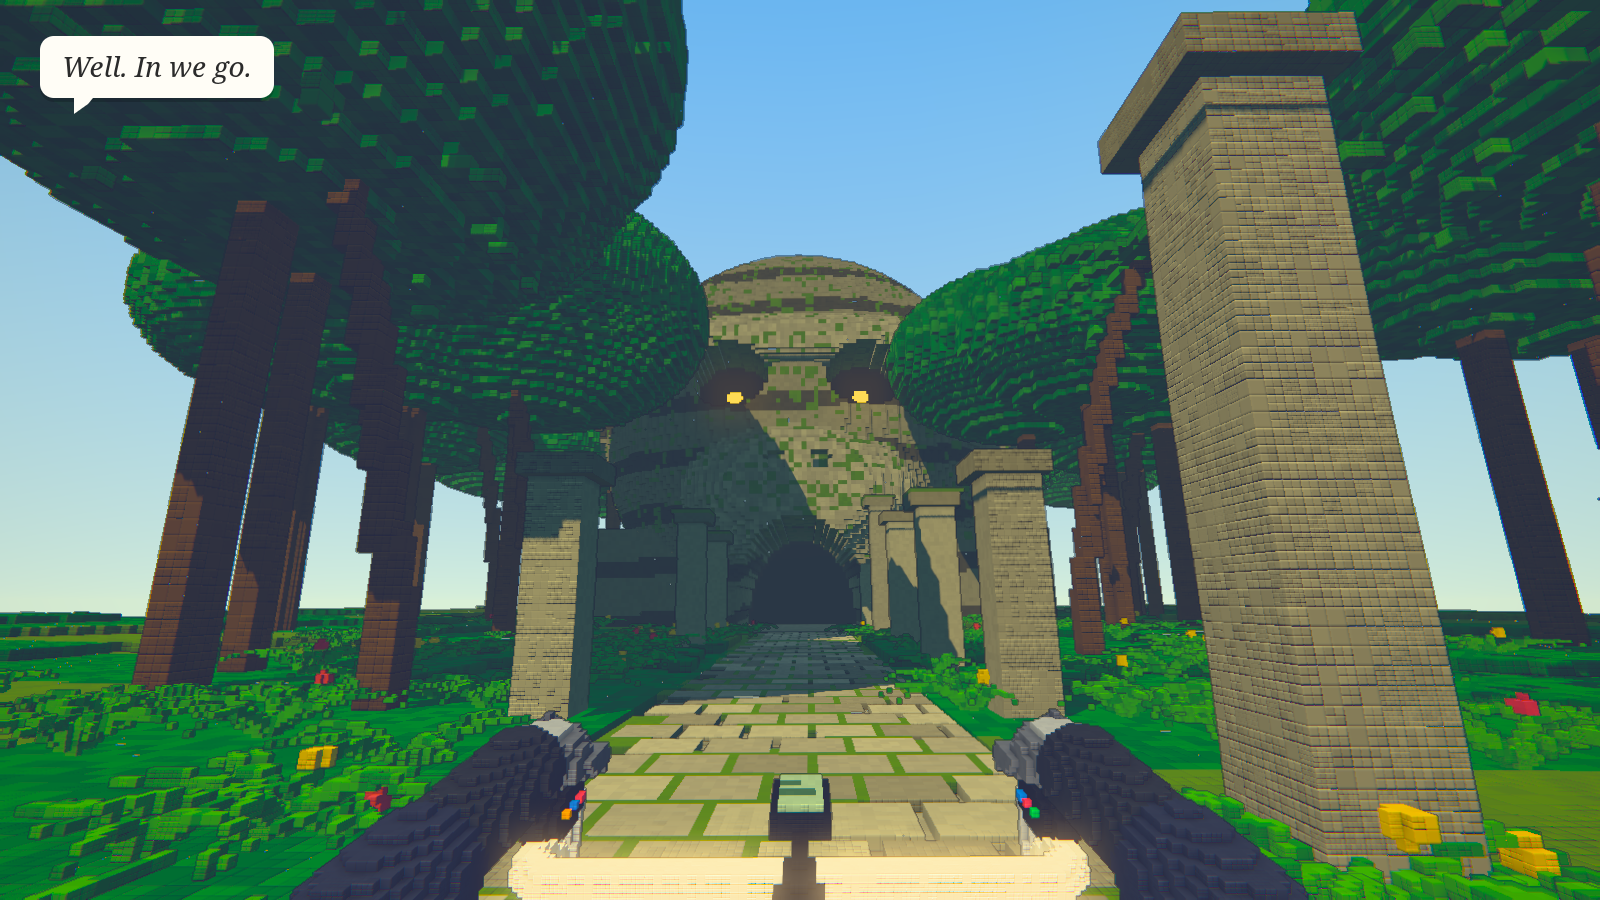
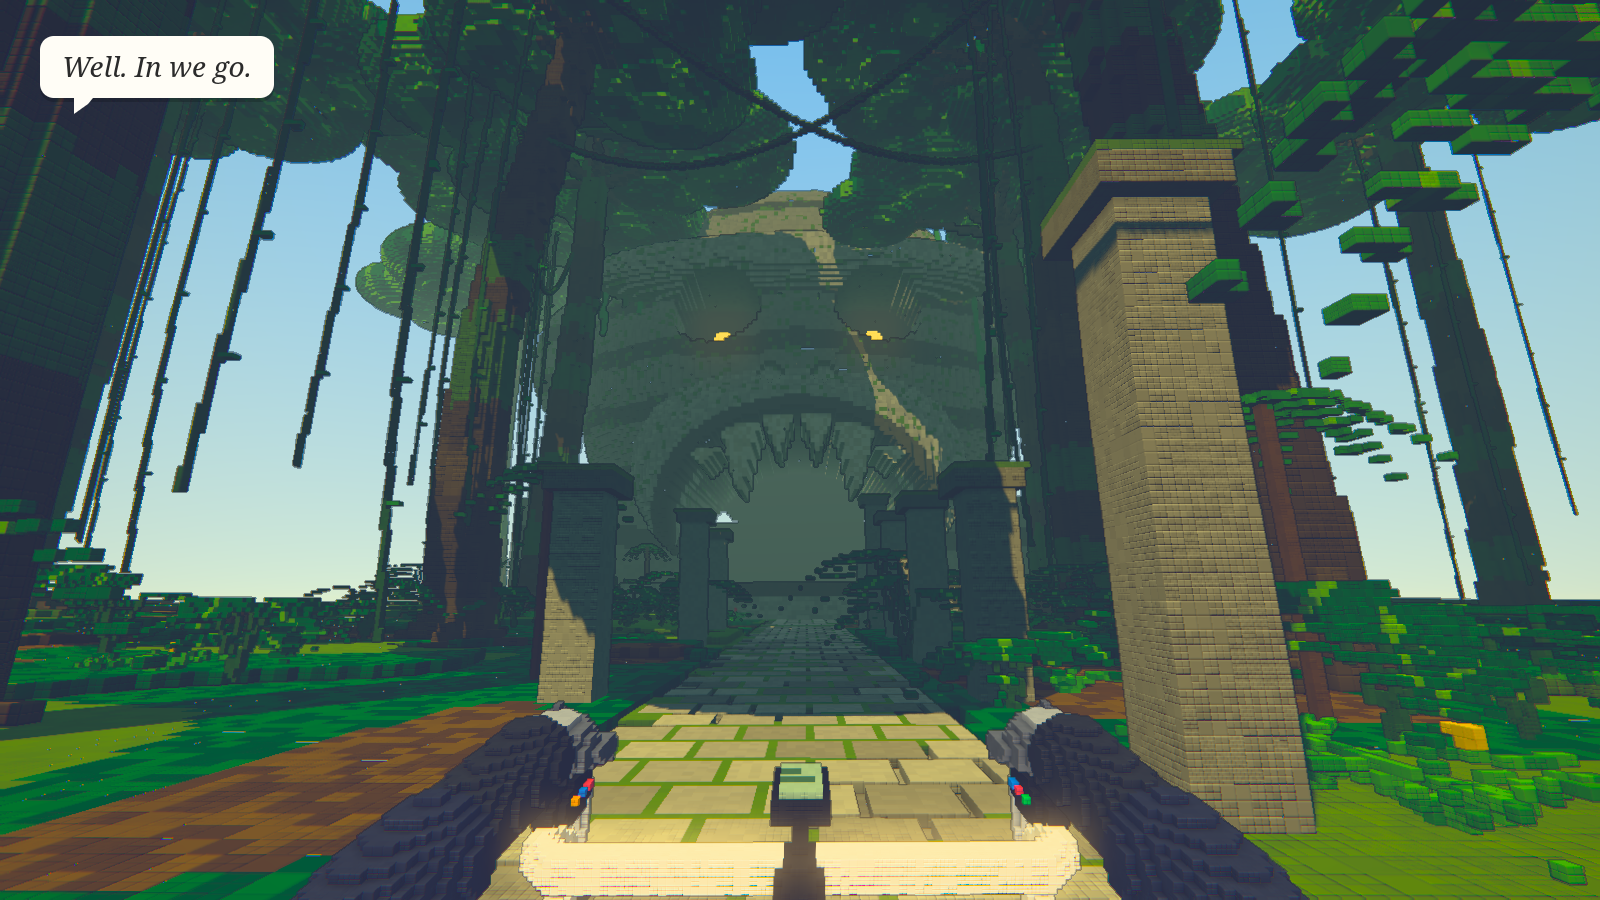
Seaside: bigger fanged monkey head, proper rainforest
- Monkey head ~1.8x larger (stands ~38 m) with a gaping oval mouth doorway:
  six upper fangs (long canines), lower fangs at the corners, a dark lip ring
  and a stone jaw threshold; eyes and nostrils re-placed around the muzzle
- Jungle: rainforest giants with buttress roots, crooked trunks and lumpy
  multi-mass crowns arching over the path; lianas hanging from crowns and
  swagged between trees (kept clear of the face); broad-leaf clumps, ferns
  and small palms in the understory; leaf-litter floor; humid green haze

diff --git a/src/games/seaside/stills/later/monkey.ts b/src/games/seaside/stills/later/monkey.ts
@@ -1,114 +1,174 @@
-// Midday, 1:22 — the end of the jungle stone path: toppled pillars, ferns, palms, and the giant carved monkey face
-// whose open mouth is the temple door.
+// Midday, 1:22 — the end of the jungle stone path: rainforest giants, lianas, broad-leaf understory, toppled pillars,
+// and the colossal carved monkey head whose gaping, fanged mouth is the temple door.
 import * as THREE from 'three';
 import { VoxelGrid } from '../../voxel/grid';
 import { noise2, fbm } from '../../voxel/noise';
 import { makeStage, aimSun, type Stage } from '../stage';
 import { L, fillBox, addLit, addGlow, fpBars, rnd } from './kit';
 
-const ground = (x: number, z: number) => 0.6 * fbm(x / 9, z / 9, 3, 31) - 0.3 + 0.03 * Math.abs(x) - (Math.abs(x) < 2.2 ? 0.2 : 0);
-const FACE_Z = -30, K = 1.45; // face position and scale
+const ground = (x: number, z: number) => 0.7 * fbm(x / 9, z / 9, 3, 31) - 0.35 + 0.025 * Math.abs(x) - (Math.abs(x) < 2.2 ? 0.25 : 0);
+const FACE_Z = -46, K = 2.6; // face position and scale (the head is designed in unit space, ~15 units tall)
+const PATH_END = FACE_Z + 3.6 * K;
+
+/** A rainforest giant: buttress roots, a tall slightly crooked trunk, branches, and a lumpy layered crown. */
+function giant(g: VoxelGrid, x: number, z: number, H: number, R: number, seed: number, lean: [number, number]) {
+  const gy = ground(x, z), r0 = 0.55 + R * 0.06;
+  const at = (t: number) => [x + lean[0] * t * t + Math.sin(t * 5 + seed) * 0.4, gy + H * t, z + lean[1] * t * t];
+  for (let i = 0; i < 16; i++) { const t0 = i / 16, t1 = (i + 1) / 16; g.wsegment(at(t0), at(t1), r0 * (1 - 0.35 * t0), rnd(i, seed, 60) < 0.25 ? L.barkMoss : i % 3 ? L.bark : L.bark2); }
+  // buttress fins
+  for (let f = 0; f < 5; f++) {
+    const a = (f / 5) * Math.PI * 2 + seed * 1.7, reach = 1.8 + rnd(f, seed, 61) * 1.6, hgt = 2.2 + rnd(f, seed, 62) * 1.8;
+    for (let k = 0; k <= 8; k++) { const t = k / 8; g.wsegment([x, gy + hgt * (1 - t), z], [x + Math.cos(a) * reach * (0.3 + 0.7 * t), gy - 0.1, z + Math.sin(a) * reach * (0.3 + 0.7 * t)], 0.14, L.bark2); }
+  }
+  // crown: branches out to 6–9 flattened leaf masses at staggered heights
+  const top = at(1), n = 6 + Math.floor(rnd(seed, 1, 63) * 4);
+  for (let b = 0; b < n; b++) {
+    const a = (b / n) * Math.PI * 2 + rnd(b, seed, 64), d = R * (0.35 + 0.65 * rnd(b, seed, 65)), hy = top[1] - 2 + rnd(b, seed, 66) * 4;
+    const c = [top[0] + Math.cos(a) * d, hy, top[2] + Math.sin(a) * d];
+    g.wsegment([top[0], top[1] - 3, top[2]], c, 0.22, L.bark);
+    const rr = R * (0.35 + 0.25 * rnd(b, seed, 67));
+    g.wellipsoid(c, [rr, rr * 0.45, rr], (xx, yy, zz) => {
+      const n2 = noise2(xx * 0.18 + seed, zz * 0.18, 68), r = rnd(xx, yy, zz);
+      if (r < 0.06) return 0; // ragged, see-through edges
+      return n2 > 0.62 ? L.leafLime : n2 < 0.35 ? L.leafDark : r < 0.5 ? L.jungle2 : L.leafMid;
+    });
+  }
+}
 
 export function stillMonkey(canvas: HTMLCanvasElement, w: number, h: number): Stage {
-  const sunDir = new THREE.Vector3(-0.45, 0.85, 0.55);
+  const sunDir = new THREE.Vector3(-0.35, 0.9, 0.45);
   const st = makeStage(canvas, w, h, {
-    zenith: 0x5fb4e8, horizon: 0xdff2e2, fog: 0xcfe6cf, fogDensity: 0.0055, sunDir, sunColor: 0xfff1d0, sunI: 2.8, hemiSky: 0xcdeccf, hemiGround: 0x5a7a3a, hemiI: 1.0,
+    zenith: 0x6fbde6, horizon: 0xe2f0dc, fog: 0xb9d8b4, fogDensity: 0.0072, sunDir, sunColor: 0xfff0c8, sunI: 2.9, hemiSky: 0xc8e8c4, hemiGround: 0x3a5a2a, hemiI: 0.9,
   });
-  // jungle floor + ferns + flowers
+
+  // forest floor with leaf litter and roots
   const g = new VoxelGrid(0.25);
-  fillBox(g, [-30, -2, -60], [30, 2.5, 8], (x, y, z) => {
+  fillBox(g, [-45, -2, FACE_Z - 50], [45, 2.5, 8], (x, y, z) => {
     const hgt = ground(x, z);
-    if (y > hgt) {
-      return 0;
-    }
-    if (y < hgt - 0.6) return 0;
-    if (Math.abs(x) < 2.0) return 0; // path goes here
-    return y > hgt - 0.25 ? (noise2(x / 5, z / 5, 37) > 0.55 ? L.moss : rnd(Math.round(x * 4), Math.round(z * 4), 38) < 0.5 ? L.jungle : L.jungle2) : L.soil;
+    if (y > hgt || y < hgt - 0.6) return 0;
+    if (Math.abs(x) < 2.0 && z > PATH_END - 1) return 0; // the stone path goes here
+    if (y < hgt - 0.25) return L.soil;
+    const n = noise2(x / 4, z / 4, 37), r = rnd(Math.round(x * 4), Math.round(z * 4), 38);
+    return n > 0.62 ? L.moss : n < 0.22 ? (r < 0.5 ? L.litter : L.soil) : r < 0.5 ? L.jungle2 : L.leafDark;
   });
-  // trees: palms bending over the path, broadleaf canopy behind
-  const tree = (x: number, z: number, hgt: number, lean: number, seed: number) => {
-    const b = [x, ground(x, z), z], top = [x + lean, b[1] + hgt, z + 0.4];
-    for (let i = 0; i < 10; i++) { const t0 = i / 10, t1 = (i + 1) / 10; const p = (t: number) => [b[0] + (top[0] - b[0]) * t * t, b[1] + (top[1] - b[1]) * t, b[2] + (top[2] - b[2]) * t]; g.wsegment(p(t0), p(t1), 0.28 - 0.1 * t0, L.trunk); }
-    for (let f = 0; f < 7; f++) {
-      const a = (f / 7) * Math.PI * 2 + seed, len = 3.2 + rnd(f, seed, 40) * 1.2;
-      for (let k = 0; k < 8; k++) { const t = k / 8; g.wellipsoid([top[0] + Math.cos(a) * len * t, top[1] + 0.4 - t * t * 2.0, top[2] + Math.sin(a) * len * t], [0.35 * (1 - t * 0.6), 0.12, 0.35 * (1 - t * 0.6)], (xx, yy) => (rnd(xx, yy, f) < 0.5 ? L.palm : L.palm2)); }
+  // rainforest giants: an arch over the path in front, walls of trees down both sides, a backdrop behind the head
+  const giants: Array<[number, number, number, number, [number, number]]> = [
+    [-10.5, -2, 24, 9, [3.5, 0]], [9, -7, 27, 10, [-3.5, 0]], [-11, -16, 26, 8, [2, 0]], [12, -20, 29, 9, [-2, 0]],
+    [-14, -30, 30, 9, [1, 0]], [15, -33, 28, 9, [-1, 0]], [-28, -12, 31, 11, [0, 0]], [29, -8, 30, 11, [0, 0]],
+    [-24, -40, 34, 12, [0, 0]], [25, -44, 33, 12, [0, 0]], [-36, -24, 32, 10, [0, 0]], [37, -28, 31, 10, [0, 0]],
+    [-14, FACE_Z - 26, 38, 14, [0, 0]], [12, FACE_Z - 30, 40, 15, [0, 0]], [-34, FACE_Z - 18, 36, 13, [0, 0]], [33, FACE_Z - 14, 37, 13, [0, 0]],
+  ];
+  giants.forEach(([x, z, H, R, lean], i) => giant(g, x, z, H, R, i + 1, lean));
+  addLit(st, 'jungle giants', g, 0.08, { cast: true, receive: true });
+
+  // lianas (hanging from crowns, some looping between trees), understory: broad leaves, ferns, palms
+  const u = new VoxelGrid(0.08);
+  for (let i = 0; i < 70; i++) {
+    const [tx, tz, H] = giants[i % giants.length], a = rnd(i, 1, 70) * Math.PI * 2, d = 2 + rnd(i, 2, 70) * 6;
+    const x = tx + Math.cos(a) * d, z = tz + Math.sin(a) * d;
+    if ((Math.abs(x) < 3 && z < 2 && z > PATH_END) || (Math.abs(x) < 13 && z < -18)) continue; // nothing hanging in front of the face
+    const y0 = ground(tx, tz) + H - 3, y1 = ground(x, z) + rnd(i, 3, 70) * 6, sway = (rnd(i, 4, 70) - 0.5) * 1.5;
+    for (let k = 0; k < 24; k++) { const t0 = k / 24, t1 = (k + 1) / 24; u.wsegment([x + sway * Math.sin(t0 * 3), y0 + (y1 - y0) * t0, z], [x + sway * Math.sin(t1 * 3), y0 + (y1 - y0) * t1, z], 0.06, L.vine); if (k % 3 === 0) u.wellipsoid([x + sway * Math.sin(t0 * 3) + 0.12, y0 + (y1 - y0) * t0, z], [0.14, 0.05, 0.1], L.jungle3); }
+  }
+  for (const [ia, ib] of [[0, 1], [1, 2], [0, 3], [6, 0], [7, 1], [2, 4], [3, 5]]) { // swags between giants, only over the near path
+    const [ax, az, ah] = giants[ia], [bx, bz, bh] = giants[ib];
+    const A = [ax, ground(ax, az) + ah * 0.75, az], B = [bx, ground(bx, bz) + bh * 0.75, bz];
+    for (let k = 0; k < 30; k++) { const t0 = k / 30, t1 = (k + 1) / 30, p = (t: number) => [A[0] + (B[0] - A[0]) * t, A[1] + (B[1] - A[1]) * t - Math.sin(Math.PI * t) * 5, A[2] + (B[2] - A[2]) * t]; u.wsegment(p(t0), p(t1), 0.07, L.vine); }
+  }
+  const leaf = (base: number[], a: number, len: number, wid: number, rise: number, droop: number, col: number) => {
+    for (let k = 0; k <= 10; k++) {
+      const t = k / 10, wv = wid * Math.sin(Math.PI * Math.min(1, t * 1.1)) + 0.02;
+      const p = [base[0] + Math.cos(a) * len * t, base[1] + rise * t - droop * t * t, base[2] + Math.sin(a) * len * t];
+      for (let s = -1; s <= 1; s += 0.25) u.wellipsoid([p[0] - Math.sin(a) * wv * s, p[1], p[2] + Math.cos(a) * wv * s], [0.07, 0.04, 0.07], Math.abs(s) < 0.1 ? L.leafLime : col);
     }
   };
-  [[-6, -6, 9, -1.8, 1], [7, -12, 10, 2.2, 2], [-9, -18, 11, -1.5, 3], [8, -2, 8, 1.5, 4], [-14, -26, 12, -2, 5], [14, -24, 11, 2, 6]].forEach(([x, z, hh, l, sd]) => tree(x, z, hh, l, sd));
-  for (let i = 0; i < 26; i++) {
-    const side = i % 2 ? 1 : -1, x = side * (9 + rnd(i, 1, 41) * 16), z = -2 - rnd(i, 2, 41) * 50, r = 3 + rnd(i, 3, 41) * 3;
-    g.wsegment([x, ground(x, z), z], [x, ground(x, z) + 6 + r, z], 0.35, L.trunk);
-    g.wellipsoid([x, ground(x, z) + 7 + r, z], [r * 1.3, r * 0.8, r * 1.3], (xx, yy, zz) => { const n = rnd(xx, yy, zz); return n < 0.4 ? L.jungle : n < 0.75 ? L.jungle2 : L.jungle3; });
-  }
-  addLit(st, 'jungle', g, 0.08, { cast: true, receive: true });
-  // ferns as real fronds, and small flowers, on a finer grid
-  const fg = new VoxelGrid(0.06);
-  for (let i = 0; i < 150; i++) {
-    const side = i % 2 ? 1 : -1, x = side * (2.5 + rnd(i, 1, 50) ** 1.5 * 12), z = 3 - rnd(i, 2, 50) * (-FACE_Z + 2), y0 = ground(x, z), size = 0.6 + rnd(i, 3, 50) * 0.9;
-    const n = 6 + Math.floor(rnd(i, 4, 50) * 4);
-    for (let f = 0; f < n; f++) {
-      const a = (f / n) * Math.PI * 2 + rnd(i, f, 51), pts: number[][] = [];
-      for (let k = 0; k <= 6; k++) { const t = k / 6; pts.push([x + Math.cos(a) * size * t, y0 + size * (0.9 * t - 0.75 * t * t), z + Math.sin(a) * size * t]); }
-      for (let k = 0; k < 6; k++) fg.wsegment(pts[k], pts[k + 1], 0.07 * (1 - k / 7), (f + k) % 3 ? L.fern : L.fern2);
+  for (let i = 0; i < 120; i++) {
+    const side = i % 2 ? 1 : -1, x = side * (2.6 + rnd(i, 1, 71) ** 1.4 * 20), z = 4 - rnd(i, 2, 71) * (8 - FACE_Z), y0 = ground(x, z);
+    if (z < PATH_END - 6 && Math.abs(x) < 9) continue; // keep the mouth clear
+    const kind = rnd(i, 3, 71);
+    if (kind < 0.45) { // big broad-leaf clump (elephant ear / banana)
+      const n = 4 + Math.floor(rnd(i, 4, 71) * 4), size = 0.9 + rnd(i, 5, 71) * 1.4;
+      for (let f = 0; f < n; f++) { const a = (f / n) * Math.PI * 2 + rnd(i, f, 72), stem = [x + Math.cos(a) * 0.3 * size, y0 + size * (0.6 + rnd(i, f, 73) * 0.6), z + Math.sin(a) * 0.3 * size]; u.wsegment([x, y0, z], stem, 0.04, L.vine); leaf(stem, a, size * 1.1, size * 0.32, 0.3 * size, 0.9 * size, f % 2 ? L.leafMid : L.jungle2); }
+    } else if (kind < 0.85) { // fern
+      const n = 7 + Math.floor(rnd(i, 4, 71) * 4), size = 0.7 + rnd(i, 5, 71) * 1.0;
+      for (let f = 0; f < n; f++) { const a = (f / n) * Math.PI * 2 + rnd(i, f, 74), pts: number[][] = []; for (let k = 0; k <= 6; k++) { const t = k / 6; pts.push([x + Math.cos(a) * size * t, y0 + size * (0.9 * t - 0.75 * t * t), z + Math.sin(a) * size * t]); } for (let k = 0; k < 6; k++) u.wsegment(pts[k], pts[k + 1], 0.07 * (1 - k / 7), (f + k) % 3 ? L.fern : L.fern2); }
+      if (rnd(i, 9, 75) < 0.3) u.wellipsoid([x + 0.2, y0 + size * 0.4, z], [0.09, 0.09, 0.09], rnd(i, 10, 75) < 0.5 ? L.flower : L.flower2);
+    } else { // small palm
+      const hh = 2 + rnd(i, 4, 71) * 3, top = [x, y0 + hh, z];
+      u.wsegment([x, y0, z], top, 0.1, L.trunk);
+      for (let f = 0; f < 7; f++) leaf(top, (f / 7) * Math.PI * 2, 1.6, 0.25, 0.4, 1.4, f % 2 ? L.palm : L.palm2);
     }
-    if (rnd(i, 9, 52) < 0.25) fg.wellipsoid([x + 0.2, y0 + size * 0.35, z], [0.09, 0.09, 0.09], rnd(i, 10, 52) < 0.5 ? L.flower : L.flower2);
   }
-  addLit(st, 'ferns', fg, 0.08, { cast: false, receive: true });
+  addLit(st, 'lianas + understory', u, 0.08, { cast: false, receive: true });
 
-  // cut-stone path and pillars (some toppled), at finer voxels
+  // cut-stone path and pillars (some toppled)
   const ps = new VoxelGrid(0.1);
-  fillBox(ps, [-2.1, -0.6, FACE_Z + 2], [2.1, 0.2, 6], (x, y, z) => {
-    const top = 0.02 * Math.sin(x * 2 + z) - Math.max(0, -z - 20) * 0.0; if (y > top || y < top - 0.4) return 0;
+  fillBox(ps, [-2.1, -0.6, PATH_END - 2], [2.1, 0.2, 6], (x, y, z) => {
+    const top = 0.02 * Math.sin(x * 2 + z); if (y > top || y < top - 0.4) return 0;
     const bx = Math.floor((x + 2.1 + (Math.floor(z / 0.8) % 2) * 0.4) / 0.8), bz = Math.floor(z / 0.8);
     const gap = ((x + 2.1 + (Math.floor(z / 0.8) % 2) * 0.4) % 0.8) < 0.1 || (((z % 0.8) + 0.8) % 0.8) < 0.1;
     if (gap && y > top - 0.1) return noise2(x, z, 43) > 0.5 ? L.moss : 0;
     const n = rnd(bx, bz, 44); return n < 0.33 ? L.stone : n < 0.66 ? L.stone2 : L.stone3;
   });
   for (let i = 0; i < 6; i++) for (const side of [-1, 1]) {
-    const z = 0 - i * 5.5, x = side * 3.3, gy = ground(x, z), toppled = rnd(i, side + 5, 45) < 0.3, hgt = 3 + rnd(i, side + 9, 45) * 2.5;
+    const z = 0 - i * 5.2, x = side * 3.3, gy = ground(x, z), toppled = rnd(i, side + 5, 45) < 0.3, hgt = 3 + rnd(i, side + 9, 45) * 2.5;
     if (toppled) { ps.wbox([x - 0.4, gy, z - 0.4], [x + 0.4 + side * hgt, gy + 0.8, z + 0.4], L.stone2); continue; }
     ps.wbox([x - 0.42, gy - 0.3, z - 0.42], [x + 0.42, gy + hgt, z + 0.42], rnd(i, side, 46) < 0.5 ? L.stone : L.stone3);
     ps.wbox([x - 0.55, gy + hgt, z - 0.55], [x + 0.55, gy + hgt + 0.3, z + 0.55], L.stone2);
     ps.wbox([x - 0.56, gy + hgt + 0.3, z - 0.56], [x + 0.56, gy + hgt + 0.36, z + 0.56], L.moss);
-    for (let k = 0; k < 6; k++) ps.wbox([x - 0.43, gy + 0.6 * k + 0.25, z + 0.42], [x + 0.43, gy + 0.6 * k + 0.29, z + 0.44], L.stoneDark); // carved rings
+    for (let k = 0; k < 6; k++) ps.wbox([x - 0.43, gy + 0.6 * k + 0.25, z + 0.42], [x + 0.43, gy + 0.6 * k + 0.29, z + 0.44], L.stoneDark);
   }
   addLit(st, 'path + pillars', ps, 0.06);
 
-  // the monkey face, carved from one mass of stone; its open mouth is the door
-  const f = new VoxelGrid(0.2);
-  const C = [0, 7.2 * K, FACE_Z - 1.5 * K];
-  fillBox(f, [-11 * K, -0.5, FACE_Z - 9 * K], [11 * K, 17 * K, FACE_Z + 3.5 * K], (wx, wy, wz) => {
-    const x = wx / K, y = wy / K, z = FACE_Z + (wz - FACE_Z) / K; // design in unit space, scaled by K
-    const dx = x, dy = y - 7.2, dz = z - (FACE_Z - 1.5);
+  // the monkey head, carved from one mass of stone; its gaping mouth is the door
+  const f = new VoxelGrid(0.3);
+  const fang = (x: number, y: number, z: number, tx: number, ty: number, len: number, r: number, down: boolean) => {
+    const t = down ? (ty - y) / len : (y - ty) / len; // 0 at the root, 1 at the tip
+    if (t < 0 || t > 1 || z < FACE_Z + 1.2 || z > FACE_Z + 3.4) return false;
+    return Math.abs(x - tx) < r * (1 - t) + 0.05;
+  };
+  fillBox(f, [-11 * K, -0.5, FACE_Z - 9 * K], [11 * K, 16 * K, FACE_Z + 4.2 * K], (wx, wy, wz) => {
+    const x = wx / K, y = wy / K, z = FACE_Z + (wz - FACE_Z) / K; // unit space
+    const dx = x, dy = y - 7.4, dz = z - (FACE_Z - 1.5);
     const head = (dx / 7.5) ** 2 + (dy / 7.6) ** 2 + (dz / 5) ** 2 < 1;
     const base = Math.abs(x) < 8.5 && y < 3.5 && z > FACE_Z - 8 && z < FACE_Z + 1.2;
-    const brow = ((dx / 6.4) ** 2 + ((y - 9.6) / 1.1) ** 2 + ((z - (FACE_Z + 2.4)) / 1.4) ** 2 < 1);
-    const muzzle = ((dx / 3.9) ** 2 + ((y - 4.6) / 2.6) ** 2 + ((z - (FACE_Z + 2.2)) / 1.8) ** 2 < 1);
-    const ears = [-1, 1].some((sx) => ((x - sx * 7.6) / 1.6) ** 2 + ((y - 8.4) / 2.2) ** 2 + ((z - (FACE_Z - 1)) / 0.9) ** 2 < 1);
-    const crown = false;
-    if (!(head || base || brow || muzzle || ears || crown)) return 0;
-    // carve: eye sockets, nostrils, the mouth doorway (a real opening)
-    if ([-1, 1].some((sx) => ((x - sx * 2.3) / 1.3) ** 2 + ((y - 8.3) / 1.05) ** 2 < 1) && z > FACE_Z + 0.4) return z < FACE_Z + 0.9 ? L.shadowVoid : 0; // deep sockets
-    if ([-1, 1].some((sx) => ((x - sx * 0.7) / 0.35) ** 2 + ((y - 5.4) / 0.3) ** 2 < 1) && z > FACE_Z + 3.1) return 0;
-    const mouth = (x / 2.3) ** 2 + ((y - 0.2) / 3.4) ** 2 < 1 && y > 0;
-    if (mouth && z > FACE_Z - 6) return z < FACE_Z - 5.4 ? L.shadowVoid : 0;
-    const top = y > 3 && rnd(Math.round(x * 5), Math.round(y * 5), Math.round(z * 5)) < 0.12 + 0.5 * Math.max(0, fbm(x / 3, z / 3, 2, 47) - 0.55);
-    if (top) return L.moss;
-    if (muzzle || brow) return rnd(Math.round(x * 5), Math.round(y * 5), Math.round(z * 5)) < 0.5 ? L.stone3 : L.stone; // pale face mask
+    const brow = (dx / 6.4) ** 2 + ((y - 10.1) / 1.1) ** 2 + ((z - (FACE_Z + 2.4)) / 1.5) ** 2 < 1;
+    const muzzle = (dx / 4.8) ** 2 + ((y - 4.2) / 3.6) ** 2 + ((z - (FACE_Z + 2.0)) / 2.0) ** 2 < 1;
+    const jaw = Math.abs(x) < 4.6 && y < 0.9 && z > FACE_Z - 1 && z < FACE_Z + 3.4; // lower jaw / threshold
+    const ears = [-1, 1].some((sx) => ((x - sx * 7.6) / 1.7) ** 2 + ((y - 8.6) / 2.4) ** 2 + ((z - (FACE_Z - 1)) / 0.9) ** 2 < 1);
+    if (!(head || base || brow || muzzle || jaw || ears)) return 0;
+    // eye sockets and nostrils
+    if ([-1, 1].some((sx) => ((x - sx * 2.4) / 1.35) ** 2 + ((y - 8.7) / 1.05) ** 2 < 1) && z > FACE_Z + 0.4) return z < FACE_Z + 0.9 ? L.shadowVoid : 0;
+    if ([-1, 1].some((sx) => ((x - sx * 0.75) / 0.38) ** 2 + ((y - 6.6) / 0.32) ** 2 < 1) && z > FACE_Z + 3.0) return 0;
+    // the gaping mouth: a wide oval doorway down to the jaw, with fangs
+    const mo = (x / 3.6) ** 2 + ((y - 2.6) / 2.9) ** 2;
+    if (mo < 1 && y > 0.9) {
+      const upper = [[-2.6, 0.5, 0.55], [-1.6, 1.8, 0.5], [-0.55, 1.0, 0.4], [0.55, 1.0, 0.4], [1.6, 1.8, 0.5], [2.6, 0.5, 0.55]]; // x, length, radius
+      for (const [tx, len, r] of upper) { const ty = 2.6 + 2.9 * Math.sqrt(Math.max(0, 1 - (tx / 3.6) ** 2)) - 0.05; if (fang(x, y, z, tx, ty, len, r, true)) return rnd(Math.round(wx * 3), Math.round(wy * 3), 5) < 0.5 ? L.teeth : L.teeth2; }
+      for (const [tx, len, r] of [[-2.9, 1.7, 0.5], [2.9, 1.7, 0.5], [-3.3, 0.8, 0.35], [3.3, 0.8, 0.35]]) if (fang(x, y, z, tx, 0.9, len, r, false)) return L.teeth;
+      return z > FACE_Z - 6 ? (z < FACE_Z - 5.4 ? L.shadowVoid : 0) : L.stoneDark;
+    }
+    if (mo < 1.25 && z > FACE_Z + 1.6 && y > 0.6) return L.stoneDark; // lip ring
+    const mossy = y > 3 && rnd(Math.round(wx * 3), Math.round(wy * 3), Math.round(wz * 3)) < 0.1 + 0.5 * Math.max(0, fbm(x / 3, z / 3, 2, 47) - 0.55);
+    if (mossy) return L.moss;
+    if (muzzle || brow || jaw) return rnd(Math.round(wx * 3), Math.round(wy * 3), Math.round(wz * 3)) < 0.5 ? L.stone3 : L.stone; // pale face mask
     const band = Math.floor(y / 0.6 + fbm(x / 4, z / 4, 2, 48) * 1.5) % 3;
-    return band === 0 ? L.stone2 : band === 1 ? L.stoneDark : L.stone2; // darker head
+    return band === 1 ? L.stoneDark : L.stone2;
   });
-  // eye glints deep in the sockets, vines over the brow
-  const eg = new VoxelGrid(0.12);
-  for (const sx of [-1, 1]) eg.wellipsoid([sx * 2.3 * K, 8.25 * K, FACE_Z + 1.0 * K], [0.32 * K, 0.26 * K, 0.1], L.glyph); // a gold glint deep in each eye
+  const eg = new VoxelGrid(0.15);
+  for (const sx of [-1, 1]) eg.wellipsoid([sx * 2.4 * K, 8.65 * K, FACE_Z + 1.0 * K], [0.3 * K, 0.24 * K, 0.15], L.glyph);
   addGlow(st, 'eye glints', eg, 1.6);
-  for (let i = 0; i < 18; i++) { if (Math.abs(-6 + i * 0.7) < 4) continue; const x = (-6 + i * 0.7 + rnd(i, 1, 49) * 0.3) * K, len = (1.5 + rnd(i, 2, 49) * 4) * K; f.wsegment([x, 10.6 * K, FACE_Z + 2.9 * K], [x + (rnd(i, 3, 49) - 0.5), 10.6 * K - len, FACE_Z + 3.3 * K], 0.14, rnd(i, 4, 49) < 0.5 ? L.jungle : L.jungle3); }
-  addLit(st, 'monkey face', f, 0.07);
+  for (let i = 0; i < 26; i++) { // vines spilling over the brow and ears, clear of the eyes and mouth
+    const ux = -7 + i * 0.56; if (Math.abs(ux) < 4.2) continue;
+    const x = (ux + rnd(i, 1, 49) * 0.3) * K, len = (2 + rnd(i, 2, 49) * 6) * K;
+    f.wsegment([x, 12.5 * K, FACE_Z + 1.5 * K], [x + (rnd(i, 3, 49) - 0.5) * 2, 12.5 * K - len, FACE_Z + 2.4 * K], 0.2, rnd(i, 4, 49) < 0.5 ? L.vine : L.jungle3);
+  }
+  addLit(st, 'monkey head', f, 0.07);
 
-  aimSun(st, new THREE.Vector3(0, 4, -18), sunDir, 32);
-  st.camera.fov = 70; st.camera.updateProjectionMatrix();
-  st.camera.position.set(0.3, 1.55, 4);
-  st.camera.lookAt(0, 6.5 * K, FACE_Z);
+  aimSun(st, new THREE.Vector3(0, 8, -24), sunDir, 46);
+  st.camera.fov = 72; st.camera.updateProjectionMatrix();
+  st.camera.position.set(0.3, 1.55, 5);
+  st.camera.lookAt(0, 13.5, FACE_Z);
   fpBars(st);
   return st;
 }

diff --git a/src/games/seaside/stills/later/kit.ts b/src/games/seaside/stills/later/kit.ts
@@ -14,7 +14,7 @@ export const LATER = definePalette({
   boatWhite: 0xeeeae0, boatOrange: 0xef6a2a, boatStripe: 0x2f4f6f, steel: 0x8f969c, steel2: 0x6c7379, chain: 0x5a5f64, partGlow: 0x9ff8ff,
   // jungle / temple
   jungle: 0x3f8f3a, jungle2: 0x2f7a33, jungle3: 0x5aa548, fern: 0x6cbf4a, fern2: 0x4f9f3e, trunk: 0x6e4f34, palm: 0x58a83a, palm2: 0x46902f,
-  soil: 0x7a5a3a, moss: 0x6f8f3a, stone: 0xb8b09c, stone2: 0xa59d89, stone3: 0xc8c0aa, stoneDark: 0x5e584c, shadowVoid: 0x0d0b09, flower: 0xf05a7a, flower2: 0xffd23a,
+  soil: 0x5a4028, litter: 0x7a5a32, leafDark: 0x1f5a2a, leafLime: 0x8ccf4a, leafMid: 0x34803a, vine: 0x3f6a2a, bark: 0x5a4a3a, bark2: 0x6e5c48, barkMoss: 0x5a7a3a, teeth: 0xe8dcc0, teeth2: 0xd6c8a8, moss: 0x6f8f3a, stone: 0xb8b09c, stone2: 0xa59d89, stone3: 0xc8c0aa, stoneDark: 0x5e584c, shadowVoid: 0x0d0b09, flower: 0xf05a7a, flower2: 0xffd23a,
   // lava
   basalt: 0x2f2a2e, basalt2: 0x3b3438, basalt3: 0x242024, obsidian: 0x1a1022, obsidian2: 0x2c1a3a, obsidianEdge: 0x7a5aa0,
   lava: 0xff7a1a, lava2: 0xffb02a, lavaHot: 0xffe08a, crust: 0x2a1410, crust2: 0x40201a, ember: 0xff4a10,
